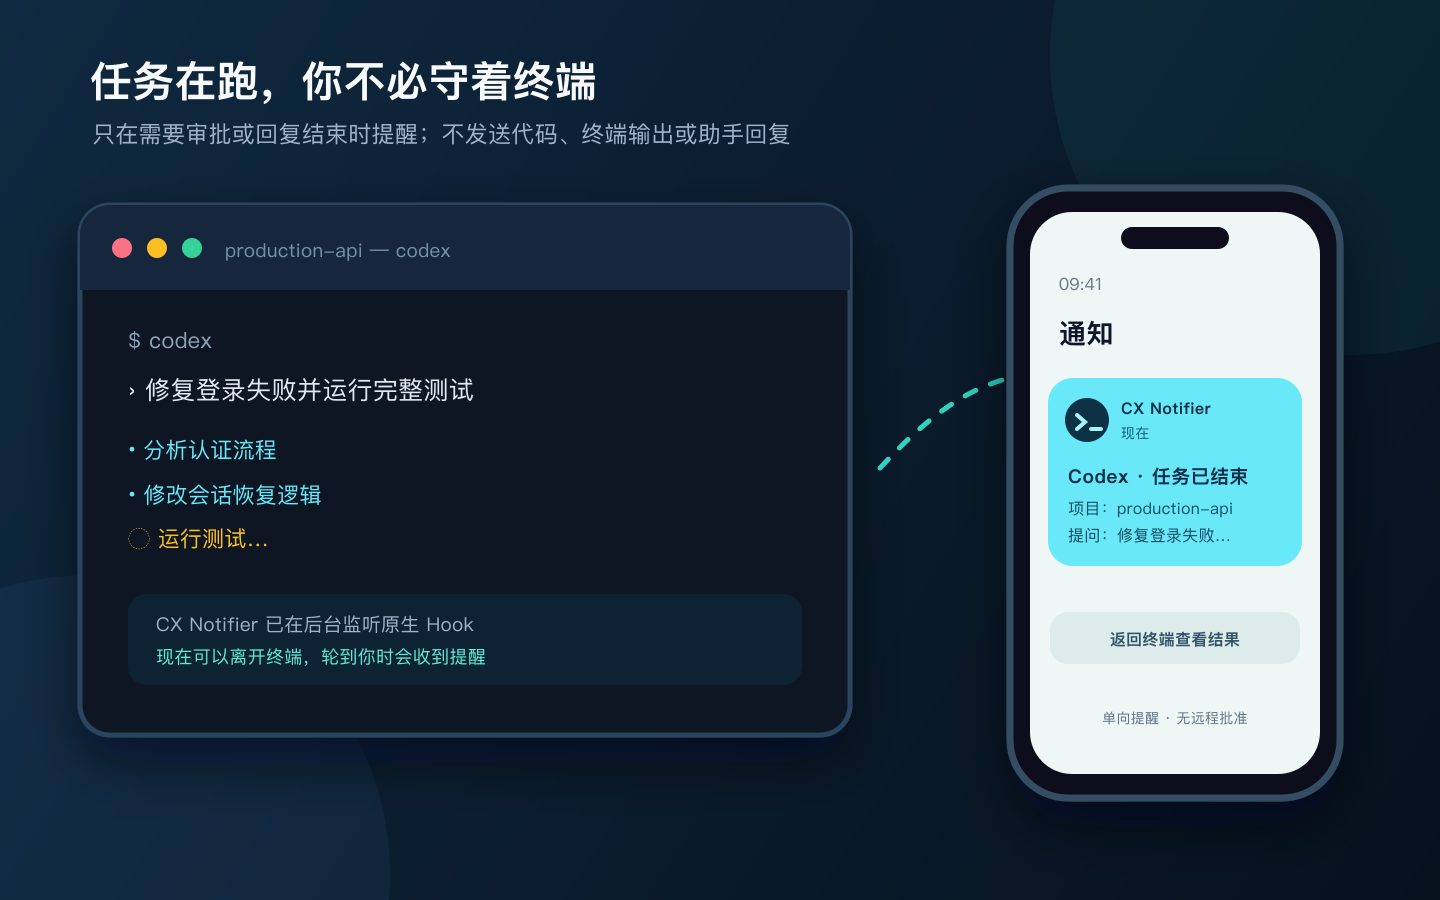
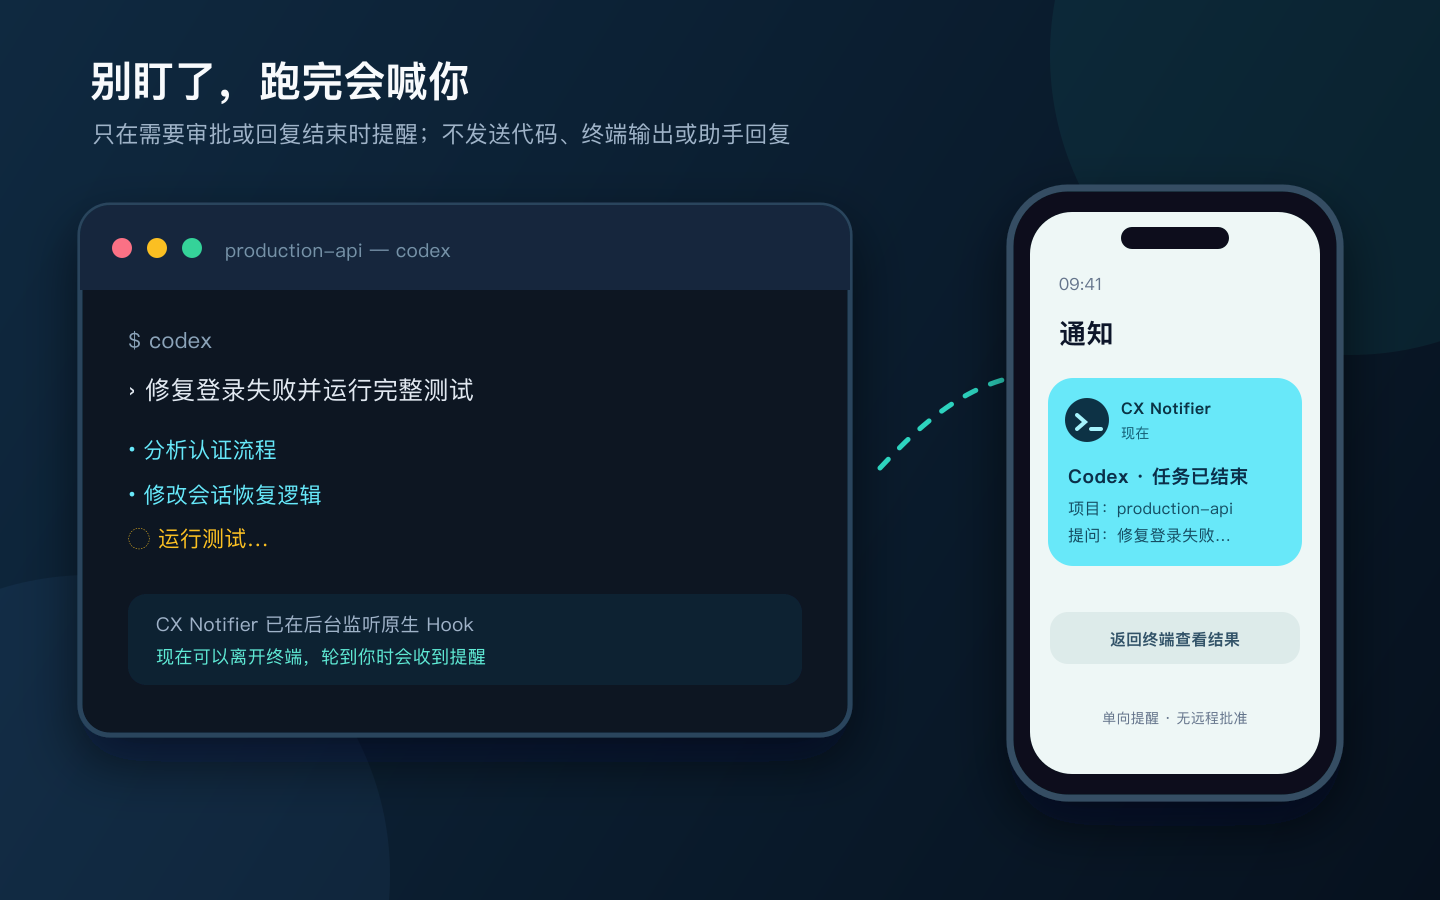
Make promotion copy more conversational

Changed region(s): [[0.0625, 0.0622, 0.4375, 0.1244]]

diff --git a/plugins/cx-plugin/README.md b/plugins/cx-plugin/README.md
@@ -1,12 +1,12 @@
-# CX Notifier — Codex / Claude Code 离岗提醒器
+# CX Notifier — 别拿自己当轮询器
 
 <p align="center">
   <img src="assets/logo.svg" alt="CX Notifier" width="760">
 </p>
 
-<p align="center"><strong>让 Agent 跑，轮到你再回来。</strong></p>
+<p align="center"><strong>别守着终端，跑完让它喊你。</strong></p>
 
-Codex 或 Claude Code 需要审批、结束当前回复时，CX Notifier 会把单向提醒发送到飞书、企业微信、钉钉、macOS/Linux 桌面或 HTTPS Webhook。你不用反复切回终端确认进度。
+把任务扔给 Codex 或 Claude Code，然后去干点别的。它要审批、跑完当前回复时，CX Notifier 会通过飞书、企业微信、钉钉、macOS/Linux 桌面或 HTTPS Webhook 喊你回来。
 
 ![CX Notifier 从终端向手机发送隐私最小化提醒](assets/notification-preview.svg)
 
@@ -49,10 +49,10 @@ curl -fsSL https://raw.githubusercontent.com/GotoLu/cx-notifier-marketplace/main
 
 ## 为什么选择 CX Notifier
 
-- **不再守着终端**：只在需要你或当前回复结束时提醒；
-- **隐私最小化**：不发送代码、diff、终端输出、工具参数或助手回复；
-- **权限边界清晰**：通知端不允许远程批准，批准或拒绝必须回到原会话；
-- **一个插件覆盖两端**：Codex 和 Claude Code 共用 Hook、渠道及路由配置。
+- **不用人肉刷新**：只在需要你或当前回复结束时喊一声；
+- **只喊该喊的**：不发送代码、diff、终端输出、工具参数或助手回复；
+- **绝不替你手滑**：通知端不允许远程批准，批准或拒绝必须回到原会话；
+- **两头通吃**：Codex 和 Claude Code 共用 Hook、渠道及路由配置。
 
 ## 处理的事件
 

diff --git a/README.md b/README.md
@@ -1,10 +1,10 @@
-# CX Notifier — Codex / Claude Code 离岗提醒器
+# CX Notifier — 别拿自己当轮询器
 
 <p align="center">
-  <img src="plugins/cx-plugin/assets/social-preview.svg" alt="让 Agent 跑，轮到你再回来" width="920">
+  <img src="plugins/cx-plugin/assets/social-preview.svg" alt="别拿自己当轮询器" width="920">
 </p>
 
-**让 Agent 跑，轮到你再回来。** CX Notifier 在 Codex 或 Claude Code 需要审批、结束当前回复时，把隐私最小化的单向提醒发送到飞书、企业微信、钉钉、macOS/Linux 桌面或 HTTPS Webhook。
+**别守着终端，跑完让它喊你。** 把任务扔给 Codex 或 Claude Code，然后去干点别的。它要审批、跑完当前回复时，CX Notifier 会通过飞书、企业微信、钉钉、macOS/Linux 桌面或 HTTPS Webhook 喊你回来。
 
 - 不发送代码、diff、终端输出、工具参数或助手回复；
 - 通知端不允许远程批准，操作仍须回到原会话完成；